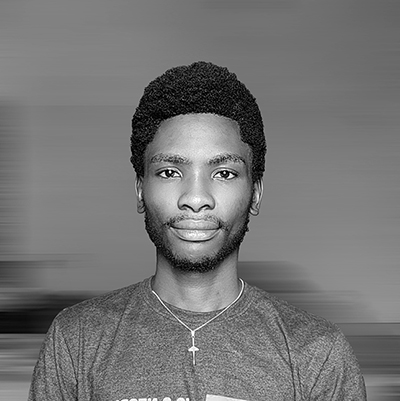
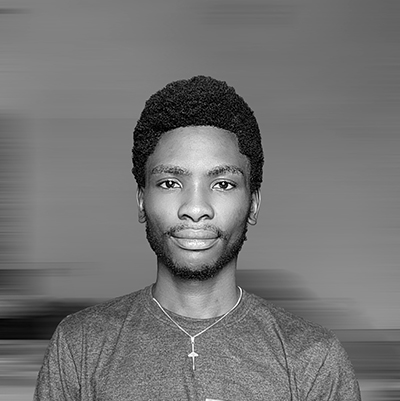
about me

Changed region(s): [[0.0, 0.1496, 1.0, 1.0], [0.93, 0.808, 1.0, 0.8678], [0.0, 0.6284, 0.09, 0.6883]]

diff --git a/src/app/section/About/index.tsx b/src/app/section/About/index.tsx
@@ -1,12 +1,18 @@
 "use client";
 
-import Link from "next/link";
+import { Code, Code1, JavaScript } from "iconsax-react";
 import AnimatedSection from "../AnimateSection";
 import ioi from "./components/ioi1.jpg";
+import ioiColor from "./components/ioi2.jpg";
 import Image from "next/image";
+import { useState } from "react";
+import Expertise from "./components/Expertise";
+import ExpertiseList from "./components/ExpertiseList";
+import Experience from "./components/Experience";
 export default function About() {
+  const [isBW, setIsBW] = useState(true);
   return (
-    <AnimatedSection id="about">
+    <AnimatedSection id="about" className="gap-8">
       <div className="flex w-full justify-start">
         <div className="flex flex-col gap-2 w-72">
           <h1 className="text-2xl font-extrabold">about me</h1>
@@ -14,31 +20,55 @@ export default function About() {
         </div>
       </div>
       <div className="flex gap-4 mt-12 mp:flex-wrap items-center justify-center">
-        <div className="relative h-48 w-48 transition-all duration-300 hover:w-64 hover:h-64">
-          <Image
-            className="rounded-full "
-            style={{ objectFit: "cover", borderRadius: "9999px" }}
-            fill
-            src={ioi}
-            alt="Isaac Ojo"
-          />
-        </div>
-        <div className="flex justify-between flex-col mp:w-full mp:pl-6 w-[70%]">
-          <h1 className="text-2xl">Isaac Ojo </h1>
-          <p>
-            Hi, I’m Isaac Ojo, a fullstack developer with a knack for building
-            awesome web and mobile apps. I use node.js, next.js, react,
-            typescript, and react native to create solutions that are fast,
-            beautiful, and reliable. I love learning new things and tackling new
-            problems. I also enjoy working with other developers and sharing
-            what I know. Whether it’s a personal project or a professional one,
-            I always strive to deliver quality and value.
-          </p>
-          <div className="flex gap-2">
-            <a href="https://github.com/elsierra">GITHUB</a>
-            <a href="mailto:hojoisaac@gmail.com">EMAIL</a>
+        <div className="w-[40%] mp:w-full flex items-center justify-center">
+          <div
+            className="relative h-48 w-48 transition-all duration-300 hover:w-64 hover:h-64"
+            onMouseEnter={() => {
+              setIsBW(false);
+            }}
+            onMouseLeave={() => {
+              setIsBW(true);
+            }}
+          >
+            <Image
+              className="rounded-full  "
+              style={{ objectFit: "cover", borderRadius: "9999px" }}
+              fill
+              src={isBW ? ioi : ioiColor}
+              alt="Isaac Ojo"
+            />
           </div>
         </div>
+        <div className="mp:h-[50vh]  flex flex-col gap-4  masked-overflow no-scrollbar overflow-y-scroll">
+          <div className="flex justify-between flex-col mp:w-full mp:pl-6">
+            <h1 className="text-2xl">Isaac Ojo </h1>
+            <p>
+              Hi, I’m Isaac Ojo, a fullstack developer with a knack for building
+              awesome web and mobile apps. I use node.js, next.js, react,
+              typescript, and react native to create solutions that are fast,
+              beautiful, and reliable. I love learning new things and tackling
+              new problems. I also enjoy working with other developers and
+              sharing what I know. Whether it’s a personal project or a
+              professional one, I always strive to deliver quality and value.
+            </p>
+            <div className="flex gap-2">
+              <a target="_blank" href="https://github.com/elsierra">
+                GITHUB
+              </a>
+              <a target="_blank" href="mailto:hojoisaac@gmail.com">
+                EMAIL
+              </a>
+            </div>
+            <button className="bg-transparent w-fit transition-all duration-300 hover:py-2 hover:bg-black dark:hover:bg-white text-black dark:text-white font-semibold hover:text-white hover:dark:text-black py-1 px-2 border border-black dark:border-white hover:border-transparent rounded">
+              Get CV
+            </button>
+          </div>
+          <ExpertiseList className="pc:hidden" />
+        </div>
+      </div>
+      <ExpertiseList className="mp:hidden" />
+      <div>
+        <Experience/>
       </div>
     </AnimatedSection>
   );

diff --git a/src/app/components/global/GoUp.tsx b/src/app/components/global/GoUp.tsx
@@ -1,0 +1,95 @@
+// 'use client'
+// import { ArrowCircleUp } from "iconsax-react";
+// import Link from "next/link";
+// import { useEffect, useState } from "react";
+
+// export default function GoUp() {
+//   const [activeSection, setActiveSection] = useState<string | null>(null);
+
+//   useEffect(() => {
+//     const observer = new IntersectionObserver(
+//       (entries) => {
+//         entries.forEach((entry) => {
+//           if (entry.isIntersecting) {
+//             setActiveSection(entry.target.id);
+//           }
+//         });
+//       },
+//       { threshold: 0.5 }
+//     );
+
+//     const sections = document.querySelectorAll("section");
+//     sections.forEach((section) => observer.observe(section));
+
+//     return () => observer.disconnect();
+//   }, []);
+//   console.log("🚀 ~ file: NavItems.tsx:15 ~ activeSection:", activeSection);
+
+//   return (
+//     <Link
+//     href={"#home"}
+//       className={`absolute  ${
+//         activeSection === "home" ? "hidden" : " absolute"
+//       } px-6 bottom-20 right-0`}
+//     >
+//       <ArrowCircleUp size="32"/>
+//     </Link>
+//   );
+// }
+
+
+"use client";
+
+import { motion, useAnimation } from "framer-motion";
+
+import { useInView } from "react-intersection-observer";
+import { ReactNode, useEffect, useState } from "react";
+import { ArrowCircleUp } from "iconsax-react";
+const boxVariant = {
+  visible: { opacity: 1 },
+  hidden: { opacity: 0 },
+};
+
+export default function GoUp() {
+  const control = useAnimation();
+
+  const [activeSection, setActiveSection] = useState<string | null>(null);
+
+  useEffect(() => {
+    const observer = new IntersectionObserver(
+      (entries) => {
+        entries.forEach((entry) => {
+          if (entry.isIntersecting) {
+            setActiveSection(entry.target.id);
+          }
+        });
+      },
+      { threshold: 0.5 }
+    );
+
+    const sections = document.querySelectorAll("section");
+    sections.forEach((section) => observer.observe(section));
+
+    return () => observer.disconnect();
+  }, []);
+
+  useEffect(() => {
+    if (activeSection !== "home") {
+      control.start("visible");
+    } else {
+      control.start("hidden");
+    }
+  }, [activeSection, control,]);
+
+  return (
+    <motion.a
+    href="#home"
+      variants={boxVariant}
+      initial="hidden"
+      animate={control}
+      className="absolute bottom-20 right-10 mp:bottom-2 mp:right-2"
+    >
+   <ArrowCircleUp size="32"/>
+    </motion.a>
+  );
+}

diff --git a/src/app/section/PersonalProjects/overflow.css b/src/app/section/PersonalProjects/overflow.css
@@ -45,3 +45,52 @@
     /* We don't repeat our mask images */
     mask-repeat: no-repeat, no-repeat;
 }
+
+
+.masked-overflow-small {
+  /* scroll bar width, for use in mask calculations */
+  --scrollbar-width: 0px;
+
+  /* mask fade distance, for use in mask calculations */
+  --mask-height: 40px;
+
+
+
+  padding-bottom: var(--mask-height);
+
+  /* Keep some space between content and scrollbar */
+  padding-top: 5px;
+
+  /* The CSS mask */
+
+  /* The content mask is a linear gradient from top to bottom */
+  --mask-image-content: linear-gradient(
+      to bottom,
+      transparent,
+      black var(--mask-height),
+      black calc(100% - var(--mask-height)),
+      transparent
+  );
+
+  /* Here we scale the content gradient to the width of the container 
+minus the scrollbar width. The height is the full container height */
+  --mask-size-content: calc(100% - var(--scrollbar-width)) 100%;
+
+  /* The scrollbar mask is a black pixel */
+  --mask-image-scrollbar: linear-gradient(black, black);
+
+  /* The width of our black pixel is the width of the scrollbar.
+The height is the full container height */
+  --mask-size-scrollbar: var(--scrollbar-width) 100%;
+
+  /* Apply the mask image and mask size variables */
+  mask-image: var(--mask-image-content), var(--mask-image-scrollbar);
+  mask-size: var(--mask-size-content), var(--mask-size-scrollbar);
+
+  /* Position the content gradient in the top left, and the 
+scroll gradient in the top right */
+  mask-position: 0 0, 100% 0;
+
+  /* We don't repeat our mask images */
+  mask-repeat: no-repeat, no-repeat;
+}

diff --git a/src/app/section/About/components/ExpertiseList.tsx b/src/app/section/About/components/ExpertiseList.tsx
@@ -1,0 +1,36 @@
+
+import Expertise from './Expertise'
+import { Code1, Code, JavaScript, Js, Mobile, MobileProgramming, Global } from 'iconsax-react'
+
+export default function ExpertiseList({className}:{className:string}) {
+  return (
+    <div className={`flex pl-6 mt-8  gap-6 justify-between mp:flex-wrap ${className}`}>
+            <Expertise
+          Icon={JavaScript}
+          header={"Typescript"}
+          subText={"Build performant web apps"}
+        />{" "}
+        <Expertise
+          Icon={JavaScript}
+          header={"React.js"}
+          subText={"Build performant web apps"}
+        />{" "}
+       
+        <Expertise
+          Icon={Js}
+          header={"Node.js"}
+          subText={"Build performant web apps"}
+        />{" "}
+        <Expertise
+          Icon={MobileProgramming}
+          header={"React Native"}
+          subText={"Build performant web apps"}
+        />
+          <Expertise
+          Icon={Global}
+          header={"Next.js"}
+          subText={"Build performant web apps"}
+        />
+      </div>
+  )
+}

diff --git a/src/app/section/About/components/Experience.tsx b/src/app/section/About/components/Experience.tsx
@@ -1,0 +1,25 @@
+import React from "react";
+
+export default function Experience() {
+  return (
+    <div className="border-[1px] h-40 rounded-md p-4">
+      <div className="h-full w-full gap-4 flex">
+        <div className="bg-[#bfbfbf] w-[0.13rem]" />
+        <div className="flex h-full flex-col">
+          <h1 className="text-md font-extrabold">Notable Experiences</h1>
+          <div className="flex flex-col  masked-overflow-small no-scrollbar overflow-y-scroll ">
+            <p className="text-sm">Mongo DB</p>
+            <p className="text-sm">Mongo DB</p>
+            <p className="text-sm">Mongo DB</p>
+            <p className="text-sm">Mongo DB</p>
+            <p className="text-sm">Mongo DB</p>
+            <p className="text-sm">Mongo DB</p>
+            <p className="text-sm">Mongo DB</p>
+            <p className="text-sm">Mongo DB</p>
+            <p className="text-sm">Mongo DB</p>
+          </div>
+        </div>
+      </div>
+    </div>
+  );
+}

diff --git a/src/app/page.tsx b/src/app/page.tsx
@@ -1,13 +1,17 @@
+import { ArrowCircleUp } from "iconsax-react";
 import About from "./section/About";
 import Main from "./section/Main";
 import PersonalProjects from "./section/PersonalProjects";
+import GoUp from "./components/global/GoUp";
 
 export default function Home() {
   return (
     <main className="min-h-screen  h-screen mp:p-0 scroll-smooth overflow-auto snap-y items-center dark:text-white ">
+     <GoUp/>
       <Main />
-      <div className="h-[1px] bg-slate-400 w-full" />
+      <div className="h-[1px] bg-slate-100 dark:bg-gray-900 w-full" />
       <PersonalProjects />
+      <div className="h-[1px] bg-slate-100  dark:bg-gray-900  w-full" />
       <About/>
     </main>
   );

diff --git a/src/app/section/AnimateSection/index.tsx b/src/app/section/AnimateSection/index.tsx
@@ -12,9 +12,11 @@ const boxVariant = {
 export default function AnimatedSection({
   id,
   children,
+  className,
 }: {
   id: string;
   children: ReactNode;
+  className?: string
 }) {
   const control = useAnimation();
 
@@ -52,7 +54,7 @@ export default function AnimatedSection({
       initial="hidden"
       animate={control}
       id={id}
-      className="h-[100vh] snap-start flex flex-col w-full items-center px-28 mp:p-8 pc:pt-5 "
+      className={`h-[100vh] snap-start flex flex-col w-full items-center px-28 mp:p-8 pc:pt-5 ${className}`}
     >
       {children}
     </motion.section>

diff --git a/src/app/components/global/LanguageAnimate.tsx b/src/app/components/global/LanguageAnimate.tsx
@@ -1,8 +1,9 @@
 "use client";
 
+import React from "react";
 import { useEffect, useState } from "react";
 
-export default function LanguageAnimate({ language }: { language: string[] }) {
+ function LanguageAnimate({ language }: { language: string[] }) {
   const [currentString, setCurrentString] = useState(language[0]);
   const [index, setIndex] = useState(0);
 
@@ -20,3 +21,4 @@ export default function LanguageAnimate({ language }: { language: string[] }) {
   return <p className="text-base mp:p-2">{currentString}</p>;
 }
 
+export default React.memo(LanguageAnimate)

diff --git a/src/app/section/About/components/Expertise.tsx b/src/app/section/About/components/Expertise.tsx
@@ -1,0 +1,16 @@
+import { Code, EmojiHappy } from "iconsax-react";
+
+export default function Expertise({Icon, header, subText}:{Icon: any, header:string,subText:string}) {
+  return (
+    <div className="flex h-8 mp:w-[100%] mp:mb-4 items-center rounded-lg justify-between gap-4 border-[1px] p-8 mp:p-6">
+      <div>
+        <Icon size={30} />
+      </div>
+      <div className="w-[1px] h-8 bg-[#828282]" />
+      <div className="flex flex-col  w-full">
+        <h1 className="font-extrabold">{header}</h1>
+       
+      </div>
+    </div>
+  );
+}

diff --git a/src/app/components/global/TypeWriter.tsx b/src/app/components/global/TypeWriter.tsx
@@ -1,7 +1,7 @@
 "use client";
 import React, { useState, useEffect } from "react";
 
-export default function TypeWriter({
+function TypeWriter({
   appendClass,
   hats,
   prefix,
@@ -66,3 +66,4 @@ export default function TypeWriter({
     </div>
   );
 }
+export default React.memo(TypeWriter)
